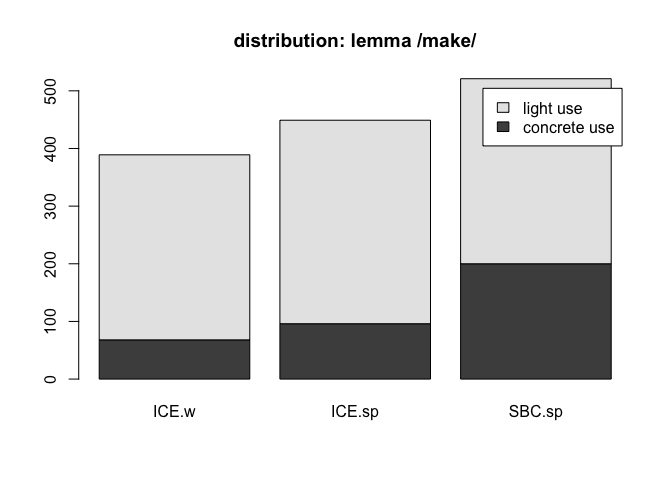
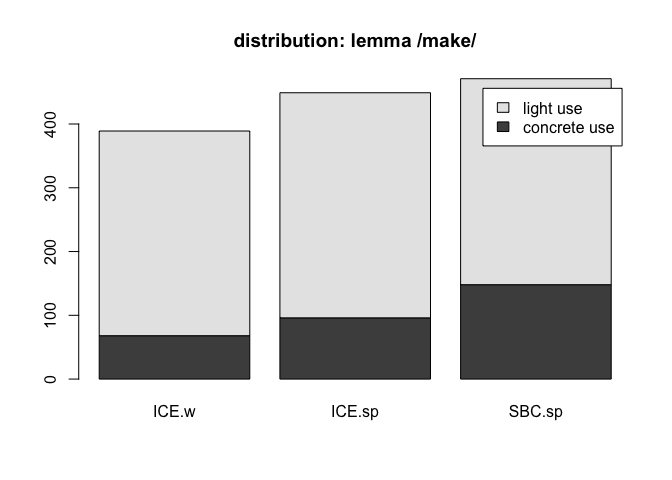
integrate edits from light.annotated.make

diff --git a/corpusLX/14015-HA/README.md b/corpusLX/14015-HA/README.md
@@ -1,8 +1,9 @@
 -   [1 term paper draft](#term-paper-draft)
     -   [1.1 init](#init)
     -   [1.2 method](#method)
-        -   [1.2.1 script used:](#script-used)
-        -   [1.2.2 process:](#process)
+        -   [1.2.1 corpus sample](#corpus-sample)
+        -   [1.2.2 script used:](#script-used)
+        -   [1.2.3 process:](#process)
 -   [2 B: references](#b-references)
 
 # 1 term paper draft
@@ -33,26 +34,51 @@ Q.1: Santa Barbara corpus of spoken American English, ([UCSB et al.
 the corpus data was downloaded from:
 <https://www.linguistics.ucsb.edu/sites/secure.lsit.ucsb.edu.ling.d7/files/sitefiles/research/SBC/SBCorpus.zip>
 
-### 1.2.1 script used:
+### 1.2.1 corpus sample
+
+|       | scb |   id | text                                                                         |   lfd | light | alt     |
+|:----|---:|---:|:--------------------------------------------|----:|----:|:-----|
+| 4315  |   4 |   37 | 2Just .. makes me feel like I2 ate a candy bar.                              |  4315 |     1 | make    |
+| 60039 |  52 |  337 | H makes me mad,                                                              | 60039 |     1 | make    |
+| 28160 |  23 | 1203 | %= They 7talked7 about what makes 8a8 classic.                               | 28160 |     1 | make    |
+| 13671 |  12 |  449 | .. You made a statement.                                                     | 13671 |     0 | make    |
+| 12049 |  10 |  930 | needs to be more involved than just making decisions on what we publish.     | 12049 |     1 | make    |
+| 21401 |  17 |  187 | and building on top of those.                                                | 21401 |     0 | build   |
+| 56378 |  49 |  589 | 2house that Joe built2 .                                                     | 56378 |     0 | build   |
+| 44298 |  38 |   18 | H In order to build a dam here,                                              | 44298 |     0 | build   |
+| 39945 |  34 |  534 | with .. built-in tables,                                                     | 39945 |     0 | build   |
+| 16949 |  14 |  425 | 2Separate2 building.                                                         | 16949 |     0 | build   |
+| 25020 |  20 |  805 | .. and his heart rejoiced.                                                   | 25020 |     0 | a-other |
+| 74    |   1 |   73 | you know,                                                                    |    74 |     0 | a-other |
+| 46922 |  41 |   37 | .. You probably \<@ aren’t burning much more @\> than like eighteen hundred, | 46922 |     0 | a-other |
+| 24790 |  20 |  575 | H whether it’s the left .. part or,                                          | 24790 |     0 | a-other |
+| 14368 |  13 |  103 | Hx                                                                           | 14368 |     0 | a-other |
+| 4171  |   3 | 1439 | Yeah.                                                                        |  4171 |     0 | a-other |
+| 2583  |   2 | 1270 | .. <X If X> I was going out dancing?                                         |  2583 |     0 | a-other |
+| 16209 |  13 | 1944 | 6@(**6?**) 7\<@ Goo=d7 .                                                     | 16209 |     0 | a-other |
+| 51842 |  45 |  321 | H uh,                                                                        | 51842 |     0 | a-other |
+| 31323 |  27 |  345 | .. Having a good time together.                                              | 31323 |     0 | a-other |
+
+### 1.2.2 script used:
 
 [14015.concrete-abstract_HA.R](14015.concrete-abstract_HA.R)
 
-### 1.2.2 process:
+### 1.2.3 process:
 
 -   distribution analysis, cf. (Mehl 2021, 11–14)
 
 <!-- -->
 
-    ## [1] 321
+    ## [1] 323
 
     ##          ICE.written ICE.spoken SBC.spoken
-    ## concrete          68         96        200
-    ## light            321        353        321
+    ## concrete          68         96        148
+    ## light            321        353        323
 
 |          | ICE.written | ICE.spoken | SBC.spoken |
 |:---------|------------:|-----------:|-----------:|
-| concrete |          68 |         96 |        200 |
-| light    |         321 |        353 |        321 |
+| concrete |          68 |         96 |        148 |
+| light    |         321 |        353 |        323 |
 
 distribution of lemma /make/ over corpora
 
